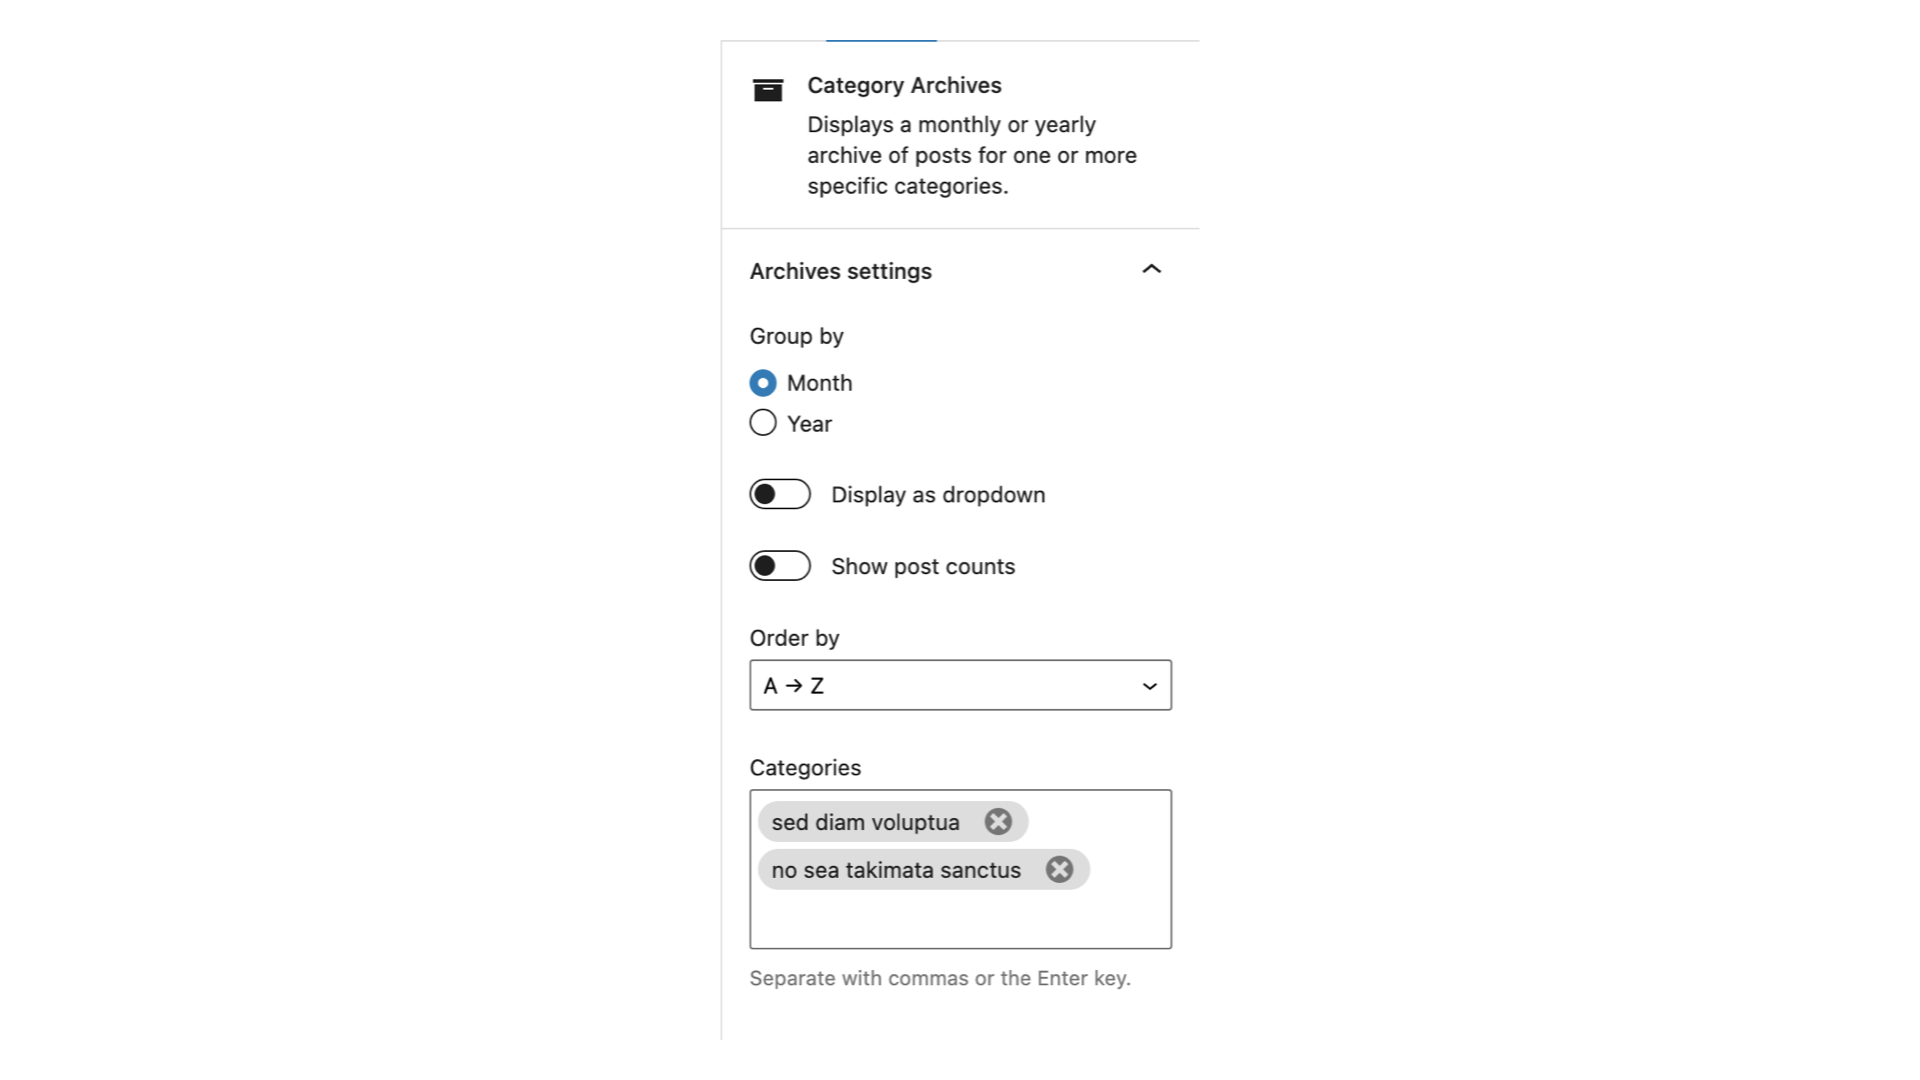
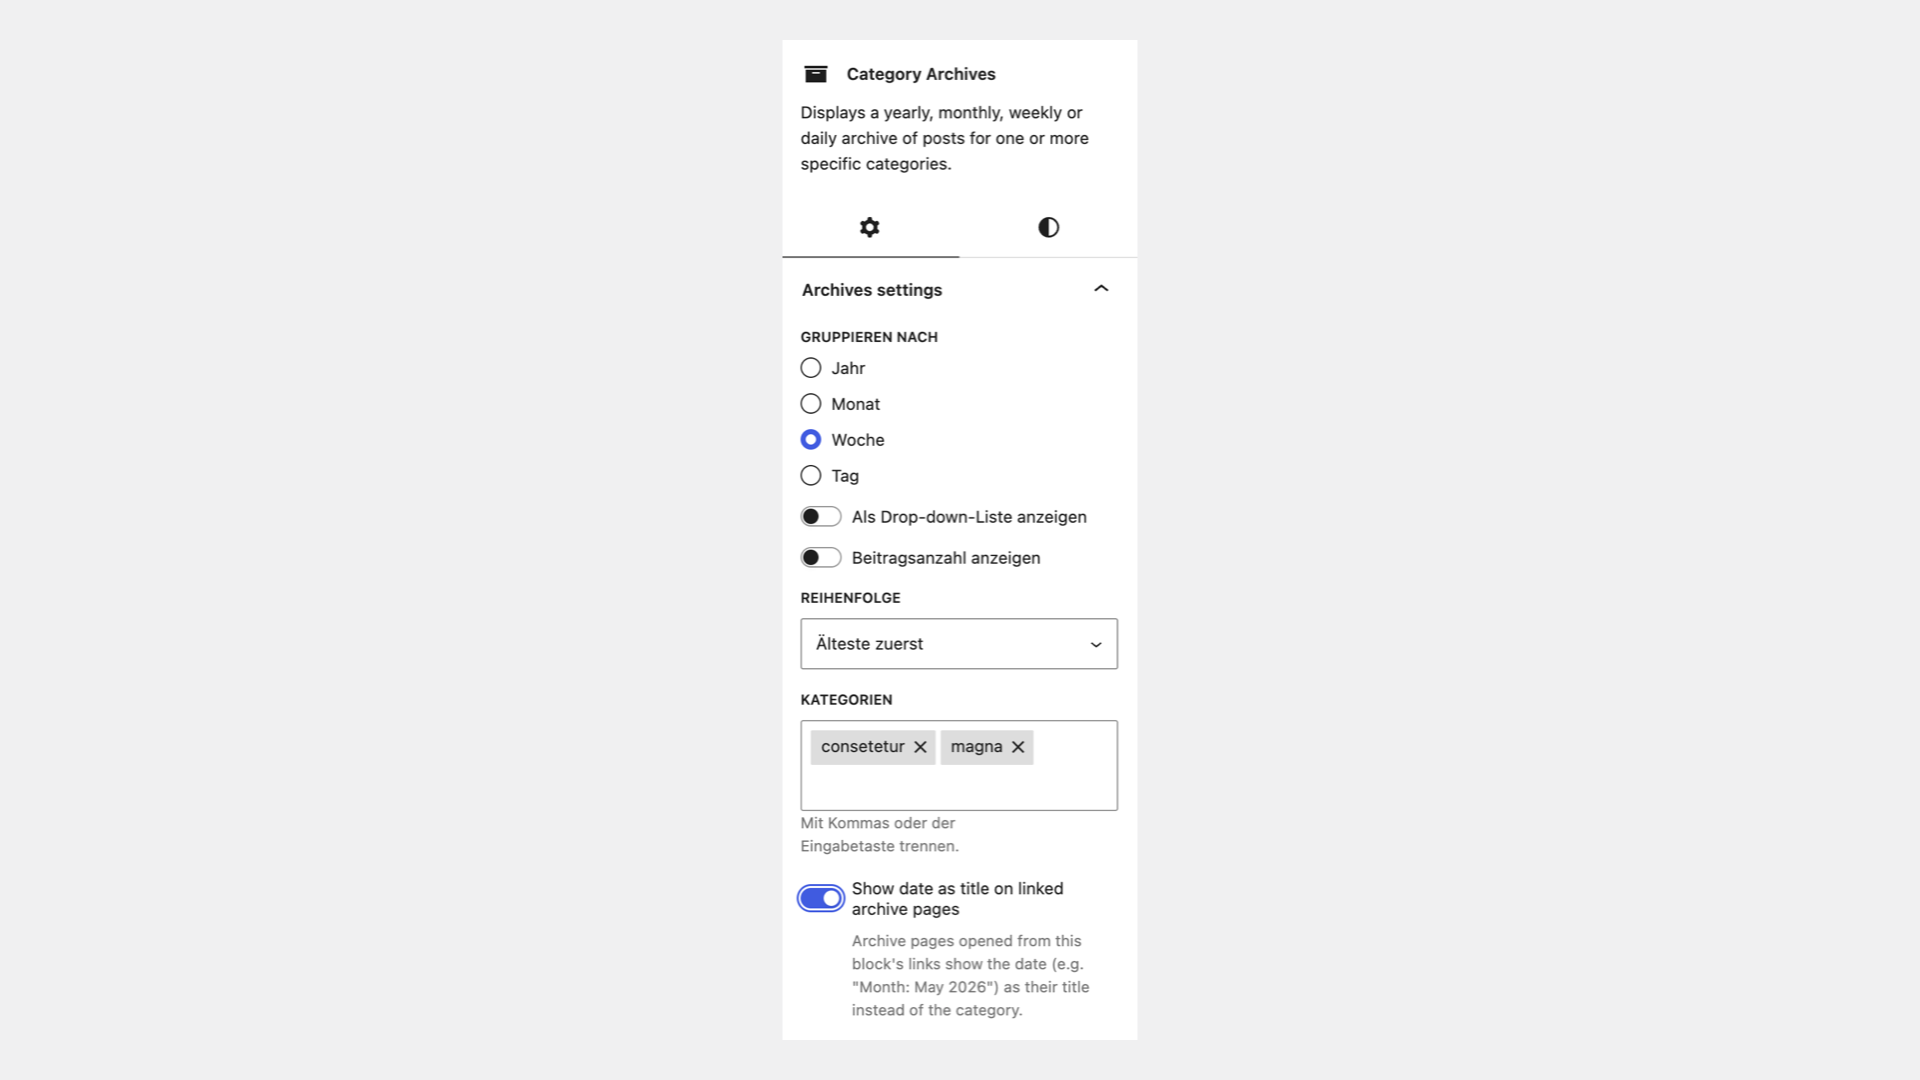
Name every selected category in the archive page title
WordPress names only the first category of a ?cat=3,7 link, because
WP_Query overwrites the 'cat' query var with the first ID. Read the
categories from the tax query instead and keep the prefix WordPress
(or the theme) chose.

Also make clear that the date title toggle affects the archive pages the
block links to, and replace screenshot 1 with the current settings panel
at 1920x1080.

diff --git a/src/edit.js b/src/edit.js
@@ -161,11 +161,11 @@ export default function Edit( { attributes, setAttributes } ) {
 					{ categories?.length > 0 && (
 						<ToggleControl
 							label={ __(
-								'Show date in archive title',
+								'Show date as title on linked archive pages',
 								'category-archives-block'
 							) }
 							help={ __(
-								'The archive page title shows the date (e.g. "Month: May 2026") instead of the category.',
+								'Archive pages opened from this block\'s links show the date (e.g. "Month: May 2026") as their title instead of the categories name.',
 								'category-archives-block'
 							) }
 							checked={ showMonthOrYear }

diff --git a/category-archives-block.php b/category-archives-block.php
@@ -351,19 +351,63 @@ function category_archives_archive_page_title( $title ) {
 		return $title;
 	}
 
-	$prefix = apply_filters( 'get_the_archive_title_prefix', $prefix );
-	if ( $prefix ) {
-		$title = sprintf(
-			/* translators: 1: Title prefix. 2: Title. */
-			_x( '%1$s %2$s', 'archive title' ),
-			$prefix,
-			'<span>' . $title . '</span>'
-		);
-	}
-
-	return $title;
+	return category_archives_prefixed_title( apply_filters( 'get_the_archive_title_prefix', $prefix ), $title );
 }
 add_filter( 'get_the_archive_title', __NAMESPACE__ . '\category_archives_archive_page_title', 5 );
+
+/**
+ * Page title names every category of the link (?cat=3,7). WordPress itself
+ * only names the first one.
+ *
+ * @param string $title          Archive title.
+ * @param string $original_title Archive title without prefix.
+ * @param string $prefix         Prefix WordPress chose, already filtered.
+ */
+function category_archives_categories_page_title( $title, $original_title = '', $prefix = '' ) {
+	global $wp_query;
+
+	if ( get_query_var( DATE_TITLE_QUERY_VAR ) || ! is_category() || empty( $wp_query->tax_query->queried_terms['category'] ) ) {
+		return $title;
+	}
+
+	// The 'cat' query var only keeps the first ID once the query ran, the
+	// tax query still has all of them.
+	$queried = $wp_query->tax_query->queried_terms['category'];
+	$names   = array();
+	foreach ( (array) $queried['terms'] as $value ) {
+		$term = get_term_by( $queried['field'], $value, 'category' );
+		if ( $term instanceof \WP_Term ) {
+			// Same filter WordPress runs on the single category name.
+			$names[ $term->term_id ] = apply_filters( 'single_cat_title', $term->name );
+		}
+	}
+
+	if ( count( $names ) < 2 ) {
+		return $title;
+	}
+
+	return category_archives_prefixed_title( $prefix, implode( ', ', $names ) );
+}
+add_filter( 'get_the_archive_title', __NAMESPACE__ . '\category_archives_categories_page_title', 5, 3 );
+
+/**
+ * Puts the prefix in front of the title the way get_the_archive_title() does.
+ *
+ * @param string $prefix Already filtered prefix, empty for none.
+ * @param string $title  Title without prefix.
+ */
+function category_archives_prefixed_title( $prefix, $title ) {
+	if ( ! $prefix ) {
+		return $title;
+	}
+
+	return sprintf(
+		/* translators: 1: Title prefix. 2: Title. */
+		_x( '%1$s %2$s', 'archive title' ),
+		$prefix,
+		'<span>' . $title . '</span>'
+	);
+}
 
 /**
  * Removes the global option that versions up to 1.0.4 wrote on every render.

diff --git a/tests/test-render-robustness.php b/tests/test-render-robustness.php
@@ -194,6 +194,32 @@ class Test_Render_Robustness extends WP_UnitTestCase {
 		$this->assertStringContainsString( 'January 2021', $title );
 	}
 
+	/**
+	 * A link for several categories names all of them in the archive title,
+	 * not only the first one as WordPress would.
+	 */
+	public function test_archive_title_names_every_category() {
+		$this->go_to( home_url( '/?m=202101&cat=' . self::$news . ',' . self::$events ) );
+		$this->assertSame( 'Category: <span>News, Events</span>', get_the_archive_title() );
+
+		$this->go_to( home_url( '/?m=202101&cat=' . self::$news ) );
+		$this->assertSame( 'Category: <span>News</span>', get_the_archive_title() );
+
+		// A category that no longer exists is left out.
+		$this->go_to( home_url( '/?m=202101&cat=' . self::$news . ',999999' ) );
+		$this->assertSame( 'Category: <span>News</span>', get_the_archive_title() );
+
+		// The date title wins when the block asks for it.
+		$this->go_to( home_url( '/?m=202101&cat=' . self::$news . ',' . self::$events . '&cab_date_title=1' ) );
+		$this->assertSame( 'Month: <span>January 2021</span>', get_the_archive_title() );
+
+		// The prefix a theme sets is kept, also when it removes it.
+		add_filter( 'get_the_archive_title_prefix', '__return_empty_string' );
+		$this->go_to( home_url( '/?m=202101&cat=' . self::$news . ',' . self::$events ) );
+		$this->assertSame( 'News, Events', get_the_archive_title() );
+		remove_filter( 'get_the_archive_title_prefix', '__return_empty_string' );
+	}
+
 	/*
 	 * 5: no generic global.
 	 */
